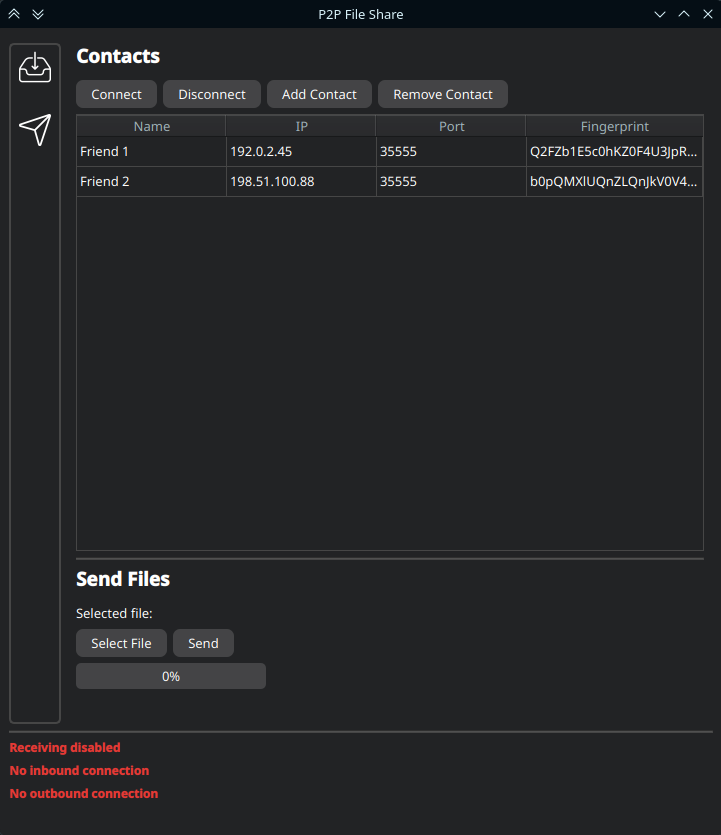
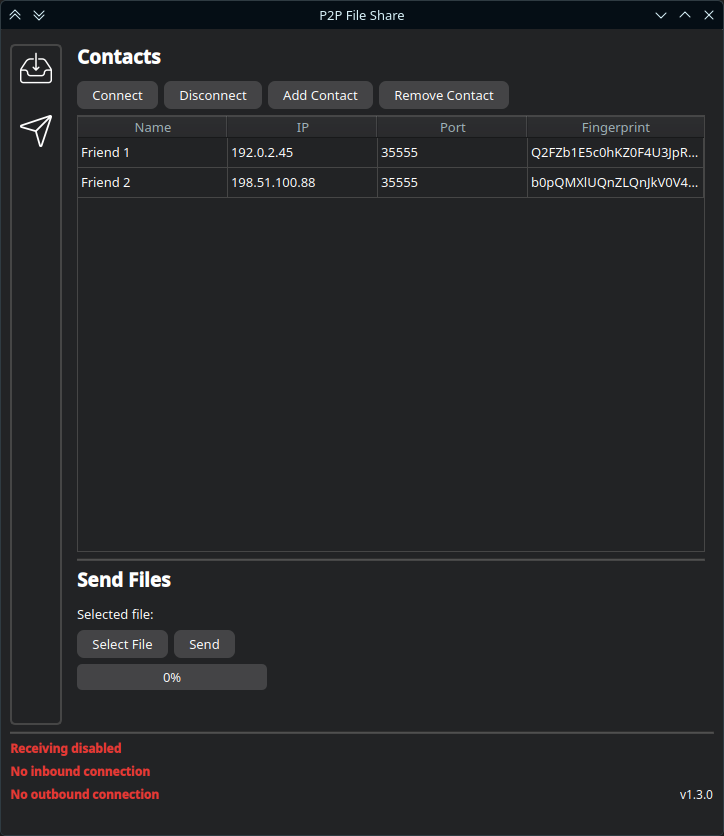
Added version label

diff --git a/src/ui/gui_layout.py b/src/ui/gui_layout.py
@@ -21,7 +21,11 @@ class Ui_MainWindow(object):
         MainWindow.setStyleSheet("background-color: rgb(34,35,37);")
         MainWindow.setUnifiedTitleAndToolBarOnMac(False)
         self.centralwidget = QtWidgets.QWidget(parent=MainWindow)
-        self.centralwidget.setStyleSheet("QPushButton {\n"
+        self.centralwidget.setStyleSheet("QLabel {\n"
+"    color: white;\n"
+"}\n"
+"\n"
+"QPushButton {\n"
 "    background-color: rgba(169, 169, 169, 0.25);\n"
 "    border-radius: 7px;\n"
 "    color: white;\n"
@@ -90,7 +94,7 @@ class Ui_MainWindow(object):
         font = QtGui.QFont()
         font.setBold(True)
         self.ipLabel.setFont(font)
-        self.ipLabel.setStyleSheet("color: rgb(255, 255, 255);")
+        self.ipLabel.setStyleSheet("")
         self.ipLabel.setObjectName("ipLabel")
         self.horizontalLayout_26.addWidget(self.ipLabel)
         self.verticalLayout_13.addLayout(self.horizontalLayout_26)
@@ -105,7 +109,7 @@ class Ui_MainWindow(object):
         font = QtGui.QFont()
         font.setBold(True)
         self.fingerprintLabel.setFont(font)
-        self.fingerprintLabel.setStyleSheet("color: rgb(255, 255, 255);")
+        self.fingerprintLabel.setStyleSheet("")
         self.fingerprintLabel.setObjectName("fingerprintLabel")
         self.horizontalLayout_37.addWidget(self.fingerprintLabel)
         self.verticalLayout_13.addLayout(self.horizontalLayout_37)
@@ -151,7 +155,7 @@ class Ui_MainWindow(object):
         font.setPointSize(14)
         font.setBold(True)
         self.label_3.setFont(font)
-        self.label_3.setStyleSheet("color: rgb(255, 255, 255);")
+        self.label_3.setStyleSheet("")
         self.label_3.setObjectName("label_3")
         self.horizontalLayout_49.addWidget(self.label_3)
         self.verticalLayout_16.addLayout(self.horizontalLayout_49)
@@ -168,7 +172,7 @@ class Ui_MainWindow(object):
         font = QtGui.QFont()
         font.setBold(True)
         self.usePortLabel.setFont(font)
-        self.usePortLabel.setStyleSheet("color: rgb(255, 255, 255);")
+        self.usePortLabel.setStyleSheet("")
         self.usePortLabel.setObjectName("usePortLabel")
         self.horizontalLayout_42.addWidget(self.usePortLabel)
         self.portSpinBox = QtWidgets.QSpinBox(parent=self.receivePage)
@@ -231,7 +235,7 @@ class Ui_MainWindow(object):
         font.setPointSize(14)
         font.setBold(True)
         self.label_4.setFont(font)
-        self.label_4.setStyleSheet("color: rgb(255, 255, 255);")
+        self.label_4.setStyleSheet("")
         self.label_4.setObjectName("label_4")
         self.horizontalLayout_50.addWidget(self.label_4)
         self.verticalLayout_17.addLayout(self.horizontalLayout_50)
@@ -248,7 +252,7 @@ class Ui_MainWindow(object):
         font = QtGui.QFont()
         font.setBold(False)
         self.incomingConnectionLabel.setFont(font)
-        self.incomingConnectionLabel.setStyleSheet("color: rgb(255, 255, 255);")
+        self.incomingConnectionLabel.setStyleSheet("")
         self.incomingConnectionLabel.setObjectName("incomingConnectionLabel")
         self.horizontalLayout_43.addWidget(self.incomingConnectionLabel)
         self.verticalLayout_17.addLayout(self.horizontalLayout_43)
@@ -295,7 +299,7 @@ class Ui_MainWindow(object):
         font.setPointSize(14)
         font.setBold(True)
         self.label_5.setFont(font)
-        self.label_5.setStyleSheet("color: rgb(255, 255, 255);")
+        self.label_5.setStyleSheet("")
         self.label_5.setObjectName("label_5")
         self.horizontalLayout_51.addWidget(self.label_5)
         self.verticalLayout_18.addLayout(self.horizontalLayout_51)
@@ -312,7 +316,7 @@ class Ui_MainWindow(object):
         font = QtGui.QFont()
         font.setBold(False)
         self.readyToReceiveLabel.setFont(font)
-        self.readyToReceiveLabel.setStyleSheet("color: rgb(255, 255, 255);")
+        self.readyToReceiveLabel.setStyleSheet("")
         self.readyToReceiveLabel.setObjectName("readyToReceiveLabel")
         self.horizontalLayout_47.addWidget(self.readyToReceiveLabel)
         self.verticalLayout_18.addLayout(self.horizontalLayout_47)
@@ -388,7 +392,7 @@ class Ui_MainWindow(object):
         font.setPointSize(14)
         font.setBold(True)
         self.label.setFont(font)
-        self.label.setStyleSheet("color: rgb(255, 255, 255);")
+        self.label.setStyleSheet("")
         self.label.setObjectName("label")
         self.horizontalLayout_5.addWidget(self.label)
         self.verticalLayout_24.addLayout(self.horizontalLayout_5)
@@ -485,7 +489,7 @@ class Ui_MainWindow(object):
         font.setPointSize(14)
         font.setBold(True)
         self.label_2.setFont(font)
-        self.label_2.setStyleSheet("color: rgb(255, 255, 255);")
+        self.label_2.setStyleSheet("")
         self.label_2.setObjectName("label_2")
         self.horizontalLayout_48.addWidget(self.label_2)
         self.verticalLayout_28.addLayout(self.horizontalLayout_48)
@@ -504,7 +508,7 @@ class Ui_MainWindow(object):
         font.setPointSize(10)
         font.setBold(False)
         self.selectedFileLabel.setFont(font)
-        self.selectedFileLabel.setStyleSheet("color: rgb(255, 255, 255);")
+        self.selectedFileLabel.setStyleSheet("")
         self.selectedFileLabel.setObjectName("selectedFileLabel")
         self.horizontalLayout_74.addWidget(self.selectedFileLabel)
         spacerItem17 = QtWidgets.QSpacerItem(40, 20, QtWidgets.QSizePolicy.Policy.Expanding, QtWidgets.QSizePolicy.Policy.Minimum)
@@ -601,7 +605,7 @@ class Ui_MainWindow(object):
         font.setPointSize(10)
         font.setBold(True)
         self.receiverDownloadedFileLabel.setFont(font)
-        self.receiverDownloadedFileLabel.setStyleSheet("color: rgb(255, 255, 255);")
+        self.receiverDownloadedFileLabel.setStyleSheet("")
         self.receiverDownloadedFileLabel.setObjectName("receiverDownloadedFileLabel")
         self.horizontalLayout_77.addWidget(self.receiverDownloadedFileLabel)
         spacerItem20 = QtWidgets.QSpacerItem(40, 20, QtWidgets.QSizePolicy.Policy.Expanding, QtWidgets.QSizePolicy.Policy.Minimum)
@@ -656,14 +660,35 @@ class Ui_MainWindow(object):
         self.inboundConnectionLabel.setStyleSheet("color: #E53935;")
         self.inboundConnectionLabel.setObjectName("inboundConnectionLabel")
         self.bottomLayout.addWidget(self.inboundConnectionLabel)
+        self.horizontalLayout = QtWidgets.QHBoxLayout()
+        self.horizontalLayout.setObjectName("horizontalLayout")
         self.outboundConnectionLabel = QtWidgets.QLabel(parent=self.centralwidget)
+        sizePolicy = QtWidgets.QSizePolicy(QtWidgets.QSizePolicy.Policy.Expanding, QtWidgets.QSizePolicy.Policy.Preferred)
+        sizePolicy.setHorizontalStretch(0)
+        sizePolicy.setVerticalStretch(0)
+        sizePolicy.setHeightForWidth(self.outboundConnectionLabel.sizePolicy().hasHeightForWidth())
+        self.outboundConnectionLabel.setSizePolicy(sizePolicy)
         font = QtGui.QFont()
         font.setPointSize(9)
         font.setBold(True)
         self.outboundConnectionLabel.setFont(font)
         self.outboundConnectionLabel.setStyleSheet("color: #E53935;")
         self.outboundConnectionLabel.setObjectName("outboundConnectionLabel")
-        self.bottomLayout.addWidget(self.outboundConnectionLabel)
+        self.horizontalLayout.addWidget(self.outboundConnectionLabel)
+        self.versionLabel = QtWidgets.QLabel(parent=self.centralwidget)
+        sizePolicy = QtWidgets.QSizePolicy(QtWidgets.QSizePolicy.Policy.Preferred, QtWidgets.QSizePolicy.Policy.Preferred)
+        sizePolicy.setHorizontalStretch(0)
+        sizePolicy.setVerticalStretch(0)
+        sizePolicy.setHeightForWidth(self.versionLabel.sizePolicy().hasHeightForWidth())
+        self.versionLabel.setSizePolicy(sizePolicy)
+        font = QtGui.QFont()
+        font.setPointSize(9)
+        self.versionLabel.setFont(font)
+        self.versionLabel.setStyleSheet("")
+        self.versionLabel.setText("")
+        self.versionLabel.setObjectName("versionLabel")
+        self.horizontalLayout.addWidget(self.versionLabel)
+        self.bottomLayout.addLayout(self.horizontalLayout)
         self.verticalLayout_23.addLayout(self.bottomLayout)
         self.statusLabel = QtWidgets.QLabel(parent=self.centralwidget)
         font = QtGui.QFont()

diff --git a/src/ui/gui.py b/src/ui/gui.py
@@ -8,6 +8,7 @@ from pathlib import Path
 
 from .gui_layout import Ui_MainWindow
 from controller.session_controller import SessionController
+from constants import PROGRAM_VERSION
 
 GREEN_COLOR: str = "#27AE60"
 GREEN_COLOR_FORMATTED: str = f"color: {GREEN_COLOR}"
@@ -118,6 +119,8 @@ class GUI():
         )
 
     def _populate_window_widgets(self):
+        self._ui.versionLabel.setText(f"v{PROGRAM_VERSION}")
+
         # Load host info
         host_info = self._session_controller.get_host_info()
 

diff --git a/src/constants.py b/src/constants.py
@@ -1,6 +1,6 @@
 from pathlib import Path
 
-PROGRAM_VERSION = "1.2.0"
+PROGRAM_VERSION = "1.3.0"
 GITHUB_LATEST_RELEASE_URL = "https://github.com/Cral0202/P2P-File-Share/releases/latest"
 GITHUB_LATEST_RELEASE_API_URL = "https://api.github.com/repos/Cral0202/P2P-File-Share/releases/latest"
 
